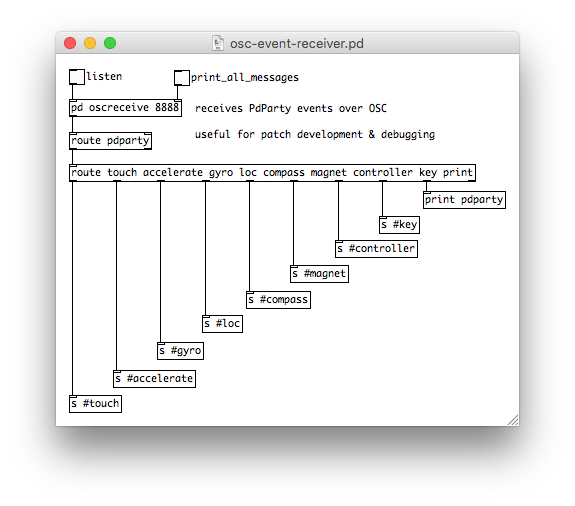
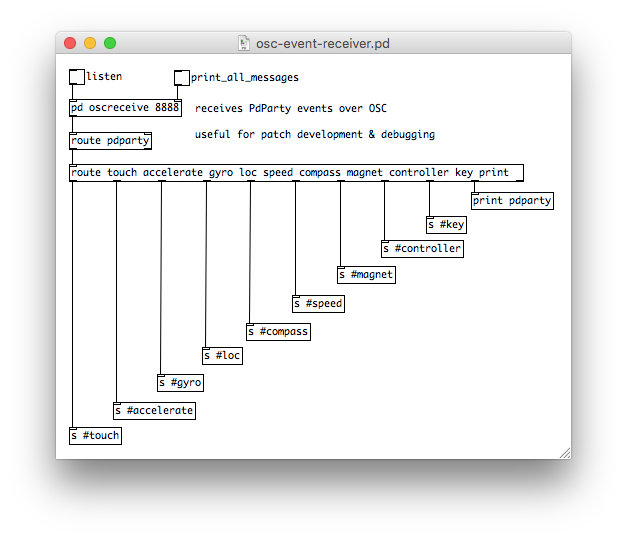
readded gps speed & course events via #speed receiver

Changed region(s): [[0.0887, 0.0593, 0.9165, 0.8597]]

diff --git a/src/modules/Osc.h b/src/modules/Osc.h
@@ -14,6 +14,7 @@
 #define OSC_ACCEL_ADDR       @"/pdparty/accelerate"
 #define OSC_GYRO_ADDR        @"/pdparty/gyro"
 #define OSC_LOCATION_ADDR    @"/pdparty/loc"
+#define OSC_SPEED_ADDR       @"/pdparty/speed"
 #define OSC_COMPASS_ADDR     @"/pdparty/compass"
 #define OSC_TIME_ADDR        @"/pdparty/time"
 #define OSC_MAGNET_ADDR      @"/pdparty/magnet"
@@ -62,6 +63,9 @@
 
 /// rj location event
 - (void)sendLocation:(float)lat lon:(float)lon accuracy:(float)accuracy;
+
+/// pdparty gps speed event
+- (void)sendSpeed:(float)speed course:(float)course;
 
 /// rj compass event
 - (void)sendCompass:(float)degrees;

diff --git a/src/modules/Osc.m b/src/modules/Osc.m
@@ -159,6 +159,15 @@
 	[connection sendPacket:message toHost:self.sendHost port:self.sendPort];
 }
 
+- (void)sendSpeed:(float)speed course:(float)course {
+	if(!self.isListening || !self.sensorSendingEnabled) return;
+	OSCMutableMessage *message = [[OSCMutableMessage alloc] init];
+	message.address = OSC_SPEED_ADDR;
+	[message addFloat:speed];
+	[message addFloat:course];
+	[connection sendPacket:message toHost:self.sendHost port:self.sendPort];
+}
+
 - (void)sendCompass:(float)degrees {
 	if(!self.isListening || !self.sensorSendingEnabled) return;
 	OSCMutableMessage *message = [[OSCMutableMessage alloc] init];

diff --git a/src/modules/Sensors.h b/src/modules/Sensors.h
@@ -37,7 +37,7 @@
 
 #pragma mark Location
 
-@property (assign, nonatomic) BOOL locationEnabled; //< enable location service
+@property (assign, nonatomic) BOOL locationEnabled; //< enable location service, includes speed & course events
 @property (assign, nonatomic) BOOL locationAutoUpdates; //< set to NO if sending manually (default: YES)
 @property (nonatomic) NSString *locationAccuracy; //< desired location accuracy: "3km", "1km", "100m", "10m", "best", "navigation" (default: "best")
 @property (nonatomic) float locationFilter; //< location distance filter in meters (default: 0)

diff --git a/src/modules/PureData.h b/src/modules/PureData.h
@@ -35,6 +35,7 @@
 
 // PdParty event receivers
 #define PARTY_MAGNET_R     @"#magnet"
+#define PARTY_SPEED_R      @"#speed"
 #define PARTY_CONTROLLER_R @"#controller"
 
 // incoming event sends
@@ -155,8 +156,11 @@
 /// rj gyro event
 + (void)sendGyro:(float)x y:(float)y z:(float)z;
 
-/// rj location event
+/// rj gps location event
 + (void)sendLocation:(float)lat lon:(float)lon accuracy:(float)accuracy;
+
+/// pdparty gps speed event
++ (void)sendSpeed:(float)speed course:(float)course;
 
 /// rj compass event
 + (void)sendCompass:(float)degrees;

diff --git a/src/modules/Sensors.m b/src/modules/Sensors.m
@@ -483,9 +483,11 @@
 	[PureData sendLocation:location.coordinate.latitude
 					   lon:location.coordinate.longitude
 				  accuracy:location.horizontalAccuracy];
+	[PureData sendSpeed:location.speed course:location.course];
 	[self.osc sendLocation:location.coordinate.latitude
 									lon:location.coordinate.longitude
 							   accuracy:location.horizontalAccuracy];
+	[self.osc sendSpeed:location.speed course:location.course];
 }
 
 - (void)sendCompass:(CLHeading *)heading {

diff --git a/src/modules/PureData.m b/src/modules/PureData.m
@@ -196,6 +196,11 @@
 		nil] toReceiver:RJ_LOCATION_R];
 }
 
++ (void)sendSpeed:(float)speed course:(float)course {
+	[PdBase sendList:[NSArray arrayWithObjects:
+		[NSNumber numberWithFloat:speed], [NSNumber numberWithFloat:course], nil] toReceiver:PARTY_SPEED_R];
+}
+
 + (void)sendCompass:(float)degrees {
 	[PdBase sendList:[NSArray arrayWithObjects:[NSNumber numberWithFloat:degrees], nil] toReceiver:RJ_COMPASS_R];
 }

diff --git a/doc/guide/PdParty_User_Guide.md b/doc/guide/PdParty_User_Guide.md
@@ -413,10 +413,13 @@ PdParty returns the following events:
   * _y_: y position, normalized 0-1 except for RjDj scenes which use 0-320
 * **[r \#accelerate] _x_ _y_ _z_**: 3 axis accelerometer values in Gs
 * **[r \#gyro] _x_ _y_ _z_**: 3 axis gyroscope rotation rate in radians/s
-* **[r \#loc] _lat_ _lon_ _accuracy_**
+* **[r \#loc] _lat_ _lon_ _accuracy_**: GPS location
   * _lat_: latitude in degrees
   * _lon_: longitude in degrees
   * _accuracy_: lat & lon accuracy (+/-) in meters
+* **[r \#speed] _speed_ _course_**: GPS speed & course heading, only sent if \#loc events are enabled
+  * _speed_: instantaneous speed in meters per second, negative values are invalid
+  * _course_: direction of travel, N is 0 degrees, E is 90, S is 180, etc; negative values are invalid
 * **[r \#compass] _degrees_**: orientation toward magnetic north with the top of UI at 0 degrees
   * _degrees_: heading toward magnetic north -> 0 N, 90 S, 180 S, 270 E
 * **[r \#time]**: timestamp event, see "Timestamps" section"
@@ -457,7 +460,7 @@ _Note: \#touch & \#accelerate events are automatically started for RjDj scenes f
 	Loc test PdParty scene
 </p>
 
-Loc events are essentially GPS location events, dependent on your device's sensors for accuracy (WiFI only, cell tower + GPS chip, etc).
+Loc events are essentially GPS location events, dependent on your device's sensors for accuracy (WiFi only, cell tower + GPS chip, etc). Additionally, speed & course events are generated when the location events are enabled.
 
 Since running the GPS location service will affect battery life in most cases, it must be manually started and configured after the scene is loaded by sending messages to the internal #pdparty receiver:
   
